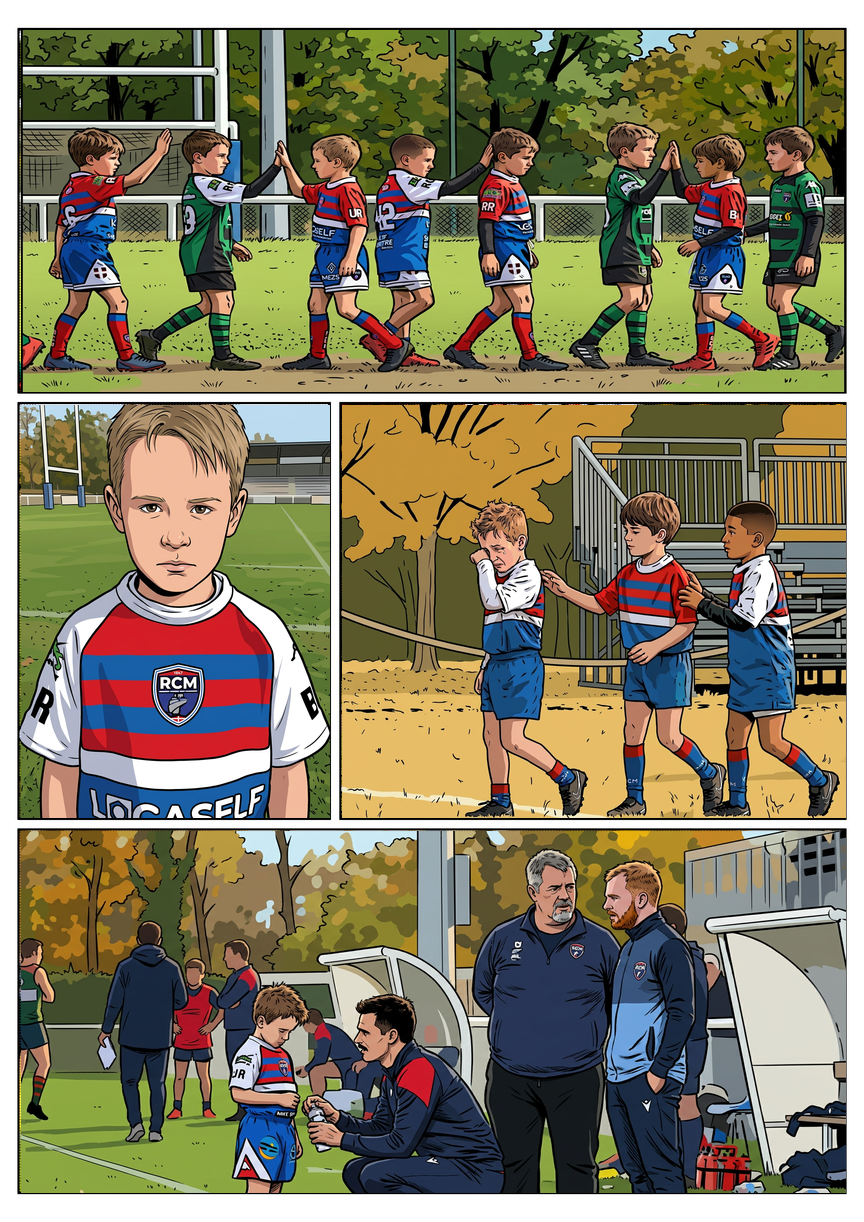
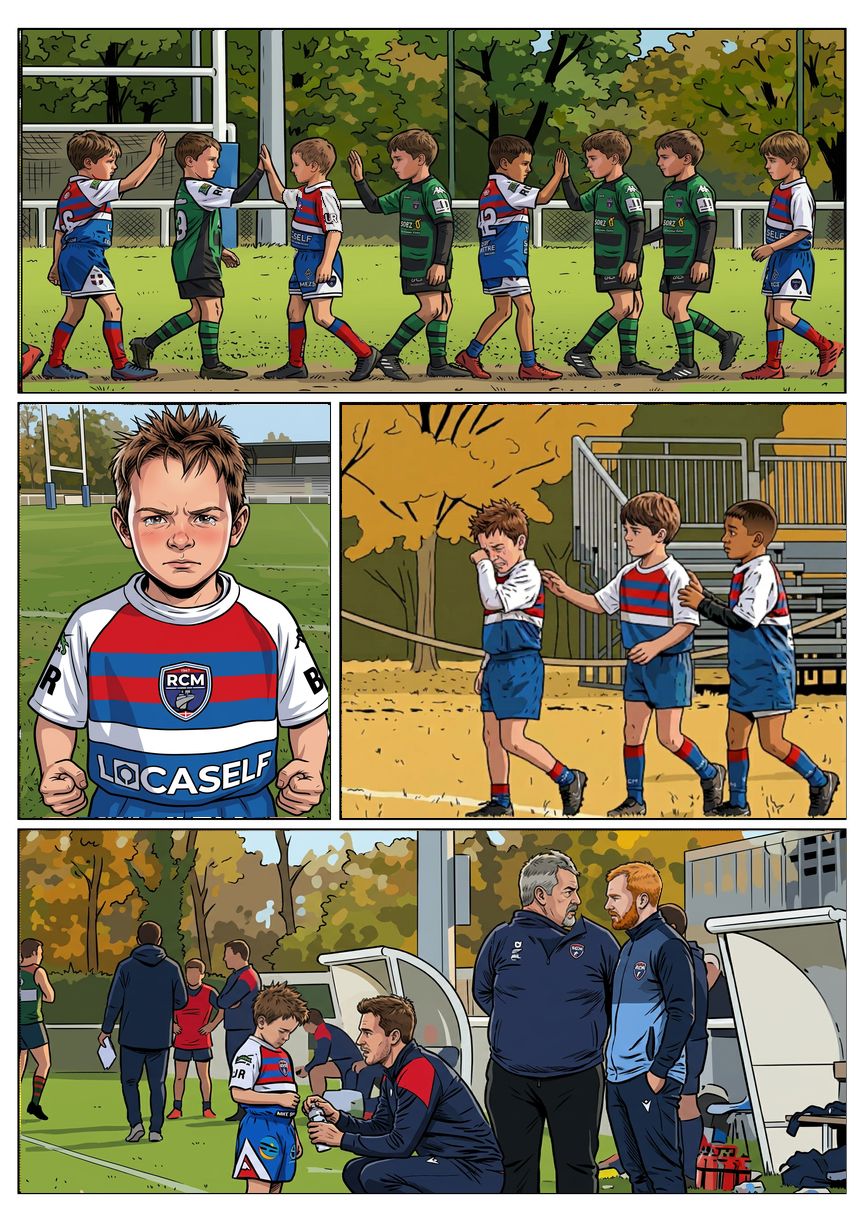
Reprendre les quatre vignettes de la planche 09 depuis la couverture

diff --git a/Planches-dessin/validation/REVUE-COUVERTURE.md b/Planches-dessin/validation/REVUE-COUVERTURE.md
@@ -21,12 +21,12 @@ Les huit recadrages exacts sont dans `revue-couverture/<Prénom>-couverture.png`
 |---|---:|
 | Planches vues en ensemble | 30 |
 | Vignettes réellement inventoriées | 153 |
-| Premières reprises intégrées, encore à relire | 44 |
+| Premières reprises intégrées, encore à relire | 48 |
 | Corrections seulement partielles, à poursuivre | 1 |
-| Autres vignettes restant à contrôler individuellement | 108 |
+| Autres vignettes restant à contrôler individuellement | 104 |
 | Validations définitives de style et ressemblance | **0** |
 
-Les 45 vignettes ayant reçu une intervention ne sont pas 45 vignettes définitivement conformes. Le reste de la revue demandée n’est pas terminé. Le manifeste `REVUE-COUVERTURE.json` conserve une entrée et un état explicite pour chacune des 153 vignettes.
+Les 49 vignettes ayant reçu une intervention ne sont pas 49 vignettes définitivement conformes. Le reste de la revue demandée n’est pas terminé. Le manifeste `REVUE-COUVERTURE.json` conserve une entrée et un état explicite pour chacune des 153 vignettes.
 
 ## Première livraison : 26/3 et 26/6
 
@@ -150,6 +150,22 @@ Comparatif : `revue-couverture/lot-i/08-AVANT-APRES.jpg` ; cinq masques document
 
 **Réserves maintenues :** encrage des corps et décors encore variable entre les cases, petits marquages hérités, continuité de coupe et de carnation de Nolann notamment entre 08/2 et 08/5 ; à rapprocher lors de la relecture transversale. Aucun texte ni aucune bulle ajoutés. Les contrôles techniques ci-dessous ne certifient pas ces points graphiques.
 
+## Dixième livraison : les quatre vignettes de la planche 9
+
+Scénario, source réaliste et couverture comparés pour chaque case. Quatre premières reprises, aucune validation définitive.
+
+**09/1 :** Haie reprise : quatre RCM identifiés Lyssandro/Ayden/Nolann/Milo et quatre adversaires. La source réaliste et l'ancien dessin montraient cinq RCM ; le joueur surnuméraire n'est plus un Léon participant à la haie mais un adversaire vert/noir. Coiffures et carnation mate de Nolann reprises ; manche encore rouge d'Ayden corrigée localement en blanc et cheveux trop blonds ramenés au châtain clair. Composition de la haie réorganisée par la reprise, terrain et cadrage de même nature. Expressions sportives réservées, sans sourires de couverture.
+
+**09/2 :** Gros plan neutre et coiffure lisse erronée remplacés : Léon retrouve ses pics châtains, sourcils froncés, joues rouges et yeux mouillés. Cadrage élargi dans la même case verticale pour rendre visibles les deux poings serrés demandés par le scénario. Aucun sourire ni ballon de couverture importés.
+
+**09/3 :** Trois garçons repris : Léon essuyant sa larme, Lyssandro au centre avec manches courtes blanches, Nolann à droite avec teint mat du visage aux mains et jambes et courte frange brune. Gestes de consolation, trois acteurs, escalier et cadre automnal maintenus. La manche blanche portée au visage de Léon reste conforme au geste scénarisé, à relire avec la tenue canonique.
+
+**09/4 :** Quatre portraits seuls repris : Léon tête baissée avec pics, Flavien brun à légère pilosité, Julien gris à bouc/moustache tourné vers Kilian roux barbu. Premier Julien frontal souriant rejeté. Le second candidat tournait aussi son corps : seul son portrait est importé, corps d'origine conservé. Bouteille, gestes, poses et six personnages secondaires hors masques préservés.
+
+Comparatif : `revue-couverture/lot-j/09-AVANT-APRES.jpg`. Masques entiers pour 09/1–3 ; quatre zones de portrait pour 09/4. Contrôle après montage de la page et des cases ; le détail de Julien a été agrandi afin de supprimer les fragments résiduels de l’ancienne tête, et l’arrière des cheveux de Flavien raccordé. Les masques ne prouvent pas le respect des acteurs dans les trois cases régénérées : ces points ont fait l’objet d’une relecture visuelle.
+
+**À relire transversalement :** tenue de Léon au geste d’essuyage (manche blanche longue héritée de la scène, différente du maillot court de couverture), continuité de carnation/coiffure de Nolann, traitement encore variable des corps et décors et petits marquages. La haie utilise un réarrangement plutôt qu’un simple changement de couleur de l’acteur surnuméraire ; vérifier à nouveau les gestes sportifs lors de la relecture globale. Le visage de Léon ne doit pas être déclaré définitivement conforme sur la seule présence des pics. Aucun ajout de texte ou de bulle à cette étape.
+
 ## Contrôles techniques et audits historiques
 
 `outils/retouche/verifier_revue_couverture.py` compare les 31 PNG au début de la revue : couverture inchangée, dimensions, empreintes, absence de modification des fichiers non concernés et invariance des pixels hors masques. Il contrôle également la cohérence des états et du bilan. **Il ne mesure pas la ressemblance ou la qualité du dessin.**
@@ -158,7 +174,7 @@ Les vérificateurs des audits 13–22, comme ceux de 23–30, s’appliquent dé
 
 ## Suite obligatoire
 
-Contrôler individuellement les **108 autres vignettes**, terminer **14/2**, puis relire les premières reprises, notamment les six cases de la planche 4 et les réserves de scénario. Vérifier systématiquement chaque occurrence de Nolann et des sept autres personnages, ainsi que décors et encrage : la revue ne peut pas se limiter aux couleurs de peau/cheveux.
+Contrôler individuellement les **104 autres vignettes**, terminer **14/2**, puis relire les premières reprises, notamment les six cases de la planche 4 et les réserves de scénario. Vérifier systématiquement chaque occurrence de Nolann et des sept autres personnages, ainsi que décors et encrage : la revue ne peut pas se limiter aux couleurs de peau/cheveux.
 
 Procédure : identification au scénario → comparaison aux personnages de couverture → comparaison à la planche réaliste → correction locale → relecture en contexte de page. Les raccords cou/cheveux/mains et les tenues restent à contrôler. Aucun candidat simplement généré n’est automatiquement validé.
 

diff --git a/Planches-dessin/SUIVI-STYLE.md b/Planches-dessin/SUIVI-STYLE.md
@@ -2,7 +2,7 @@
 
 **La couverture `00-couverture-marvel.png` est désormais la seule référence de style et d’identité.** La décision utilisateur remplace la priorité V2 décrite dans l’historique ci-dessous. La couverture reste inchangée.
 
-Suivi actuel : [`validation/REVUE-COUVERTURE.md`](validation/REVUE-COUVERTURE.md) et son manifeste JSON : 153 vignettes inventoriées, 44 premières reprises, 1 correction partielle, 108 autres contrôles individuels à faire, aucune validation définitive. Les anciennes approbations ne valent pas conformité au nouveau référentiel.
+Suivi actuel : [`validation/REVUE-COUVERTURE.md`](validation/REVUE-COUVERTURE.md) et son manifeste JSON : 153 vignettes inventoriées, 48 premières reprises, 1 correction partielle, 104 autres contrôles individuels à faire, aucune validation définitive. Les anciennes approbations ne valent pas conformité au nouveau référentiel.
 
 ---
 
